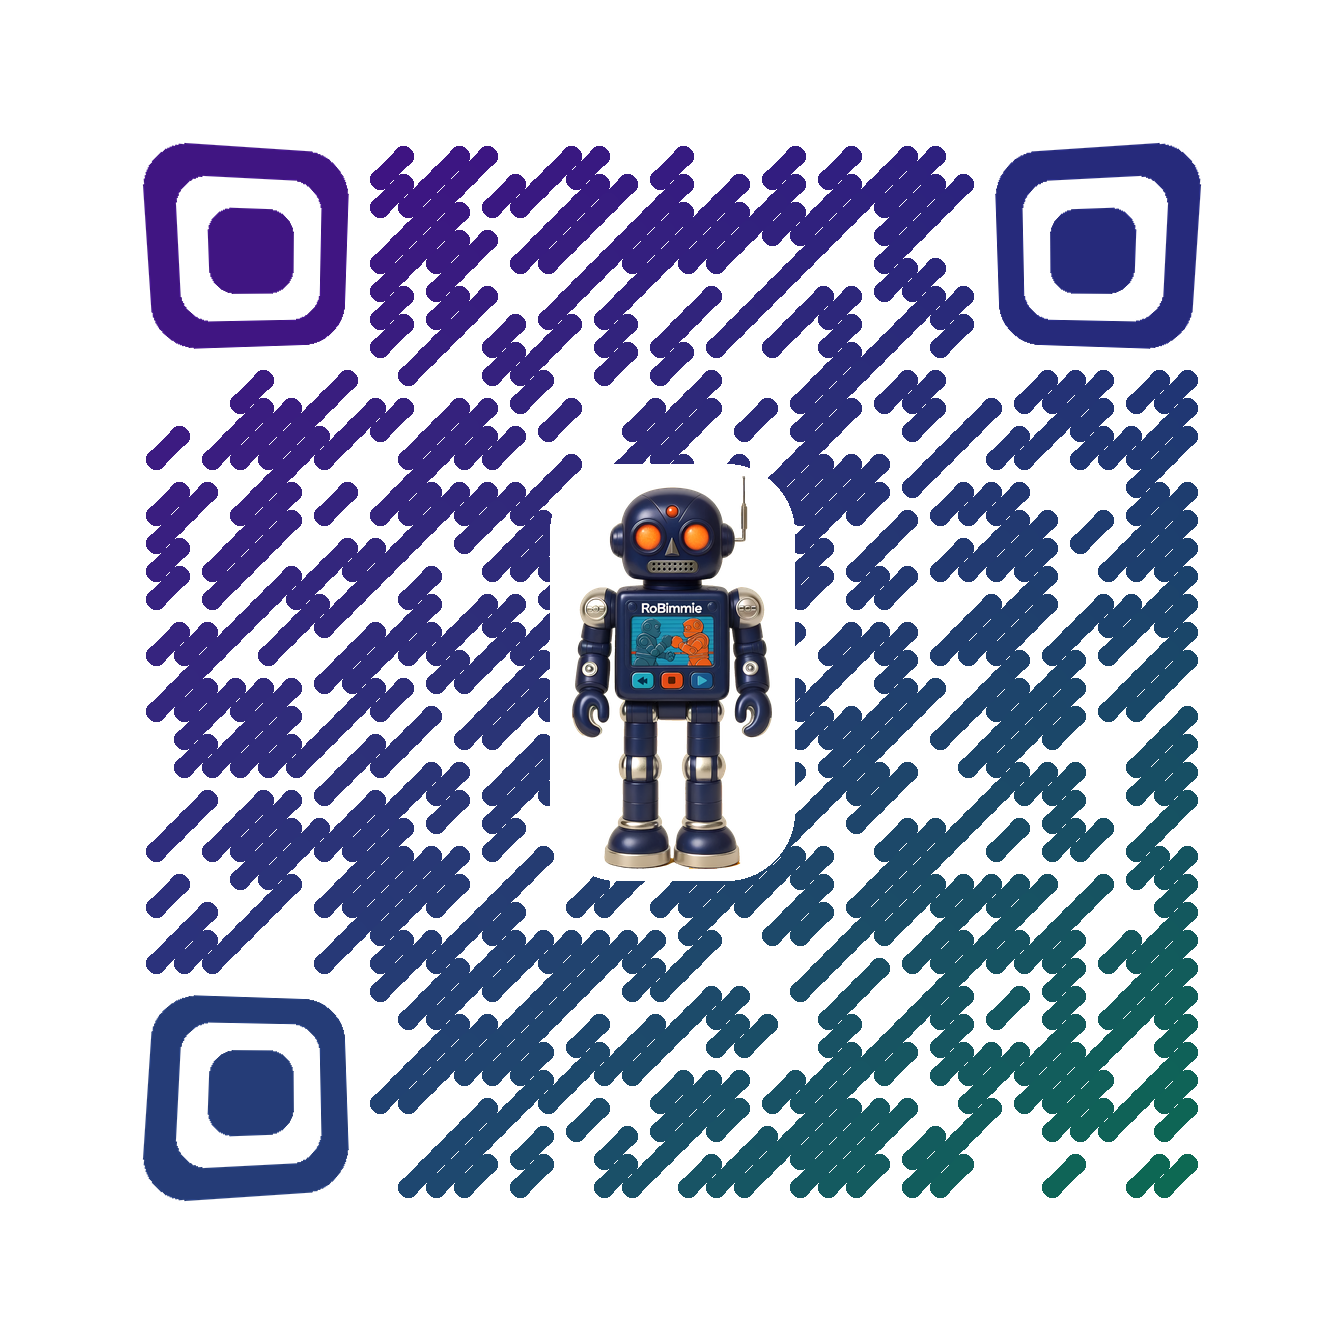
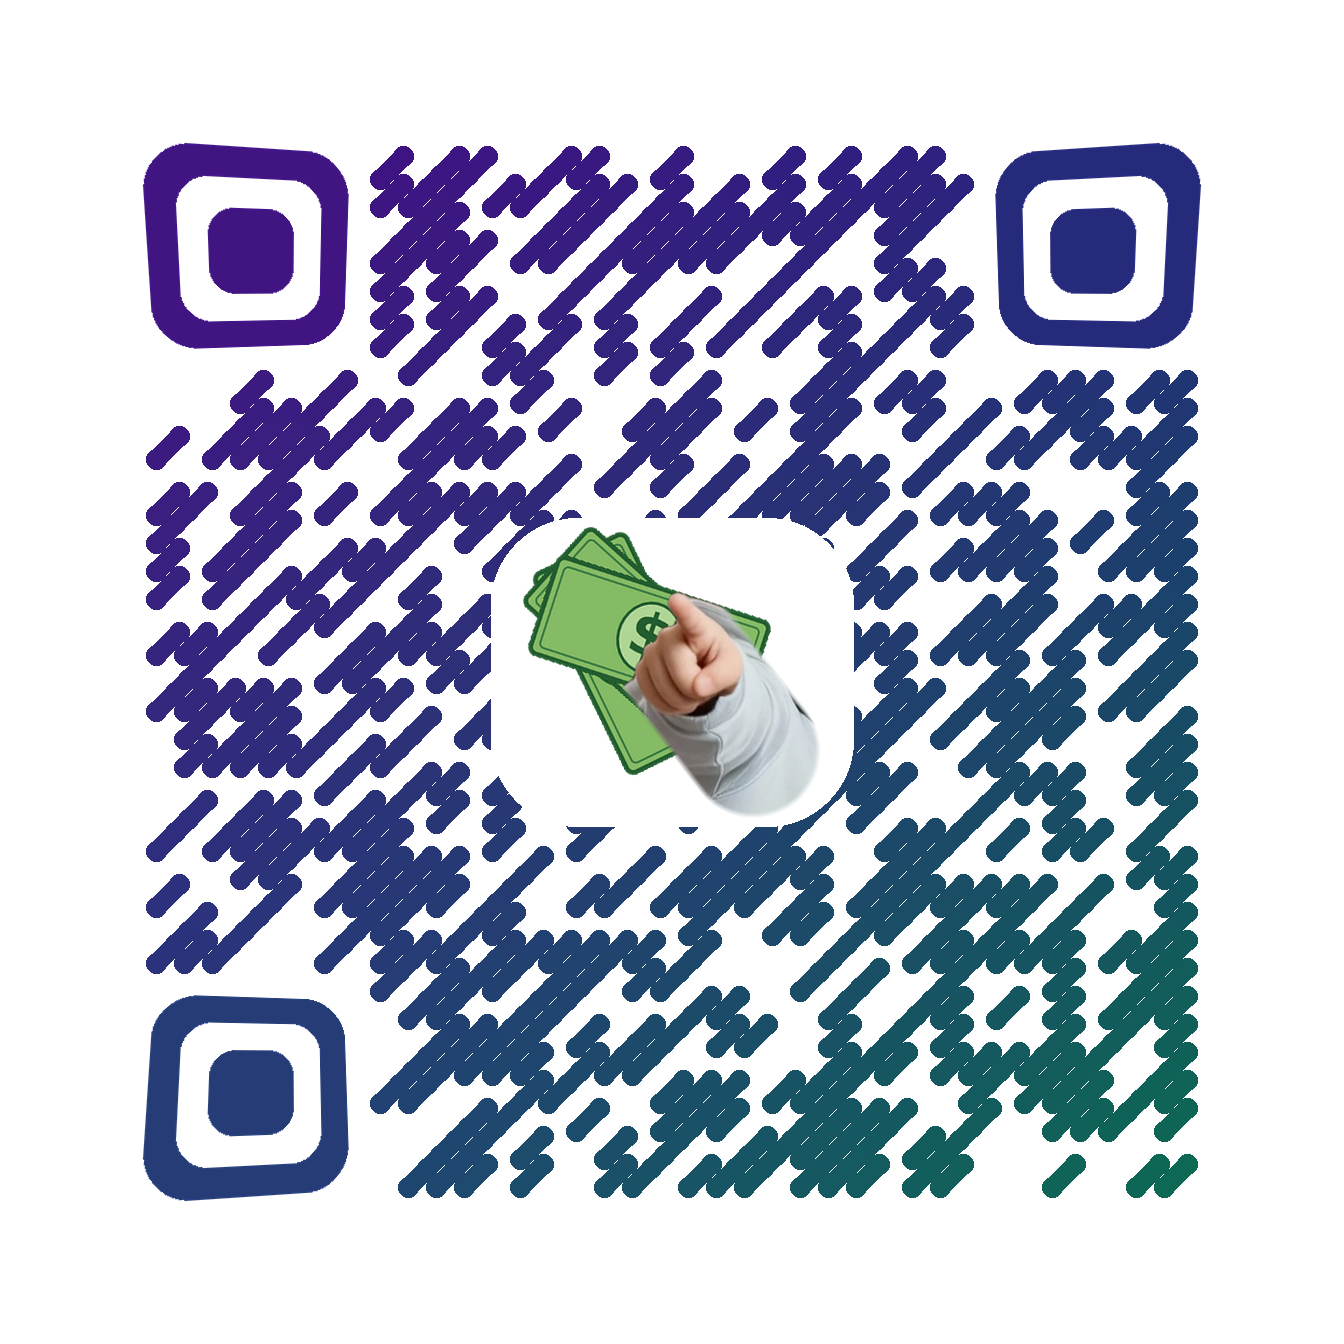
QR center: Clarence's hand handing over a fan of bills
Robot didn't say money. Full-figure Clarence read too small. Final
center art is just his pointing hand and hoodie cuff (capsule-cropped
from forsite/clarence_point.png) gripping three cartoon dollar bills,
rotated so the hand reaches in level. Knockout plate is now sized by
area (~10.5% of the code) so any art aspect stays inside ECC H's
recovery budget. All six styles decode 12/12 under blur, tilt, glare,
and 150px stress tests.

Also keeps images/clarence-bills.png (full-figure version) as a spare
asset for social use.

Claude-Session: https://claude.ai/code/session_011P3ggmPFRxPjArGTbVbY72

Changed region(s): [[0.3438, 0.3438, 0.6562, 0.6562]]

diff --git a/generate_qr_options.py b/generate_qr_options.py
@@ -25,9 +25,11 @@ from qrcode.constants import ERROR_CORRECT_H
 from PIL import Image, ImageDraw, ImageFont
 
 ROOT = Path(__file__).resolve().parent
-# Center art: RoBimmie, the robot Clarence actually bargains for. The v1
-# piggy bank read as a savings brand — CGB is a smart-spending brand.
-CENTER_SRC = ROOT / "images" / "robimmie-cutout.png"
+# Center art: Clarence's hand (cropped from forsite/clarence_point.png)
+# handing over a fan of cartoon bills — a kid spending money smartly is the
+# pitch. Earlier drafts: piggy bank (reads as savings), RoBimmie, full-figure
+# Clarence; robimmie-cutout.png and clarence-bills.png are still around.
+CENTER_SRC = ROOT / "images" / "hand-bills.png"
 OUT_DIR = ROOT / "images" / "qr-options"
 URL = "https://www.clarencegetsabargain.com"
 
@@ -43,8 +45,9 @@ CARD_MARGIN = 1.5        # extra white card margin beyond quiet zone (modules)
 FINDER_SIZE = 7
 BAR_RATIO = 0.78         # bar/dot thickness as fraction of a module
 
-ART_RATIO = 0.38         # center art max dimension vs QR code width
-                         # (v1 piggy bank was 0.45 wide — too big to recover)
+PLATE_AREA = 0.105       # white plate covers ~10.5% of the code — ECC H can
+                         # recover 30%; v1's piggy bank plate was ~20%
+ART_MAX_DIM = 0.40       # cap on center art's largest dimension vs code width
 PLATE_PAD_W = 1.22       # white plate padding around the art
 PLATE_PAD_H = 1.06
 
@@ -324,7 +327,9 @@ def render_option(matrix, style: str) -> Image.Image:
     # code — well inside ECC H's 30% recovery budget.
     cx = cy = total // 2
     art = Image.open(CENTER_SRC).convert("RGBA")
-    scale = (qr_px * ART_RATIO) / max(art.size)
+    target = PLATE_AREA * qr_px * qr_px
+    scale = (target / (art.width * PLATE_PAD_W * art.height * PLATE_PAD_H)) ** 0.5
+    scale = min(scale, (qr_px * ART_MAX_DIM) / max(art.size))
     art = art.resize((int(art.width * scale), int(art.height * scale)),
                      Image.LANCZOS)
     pw = int(art.width * PLATE_PAD_W)
